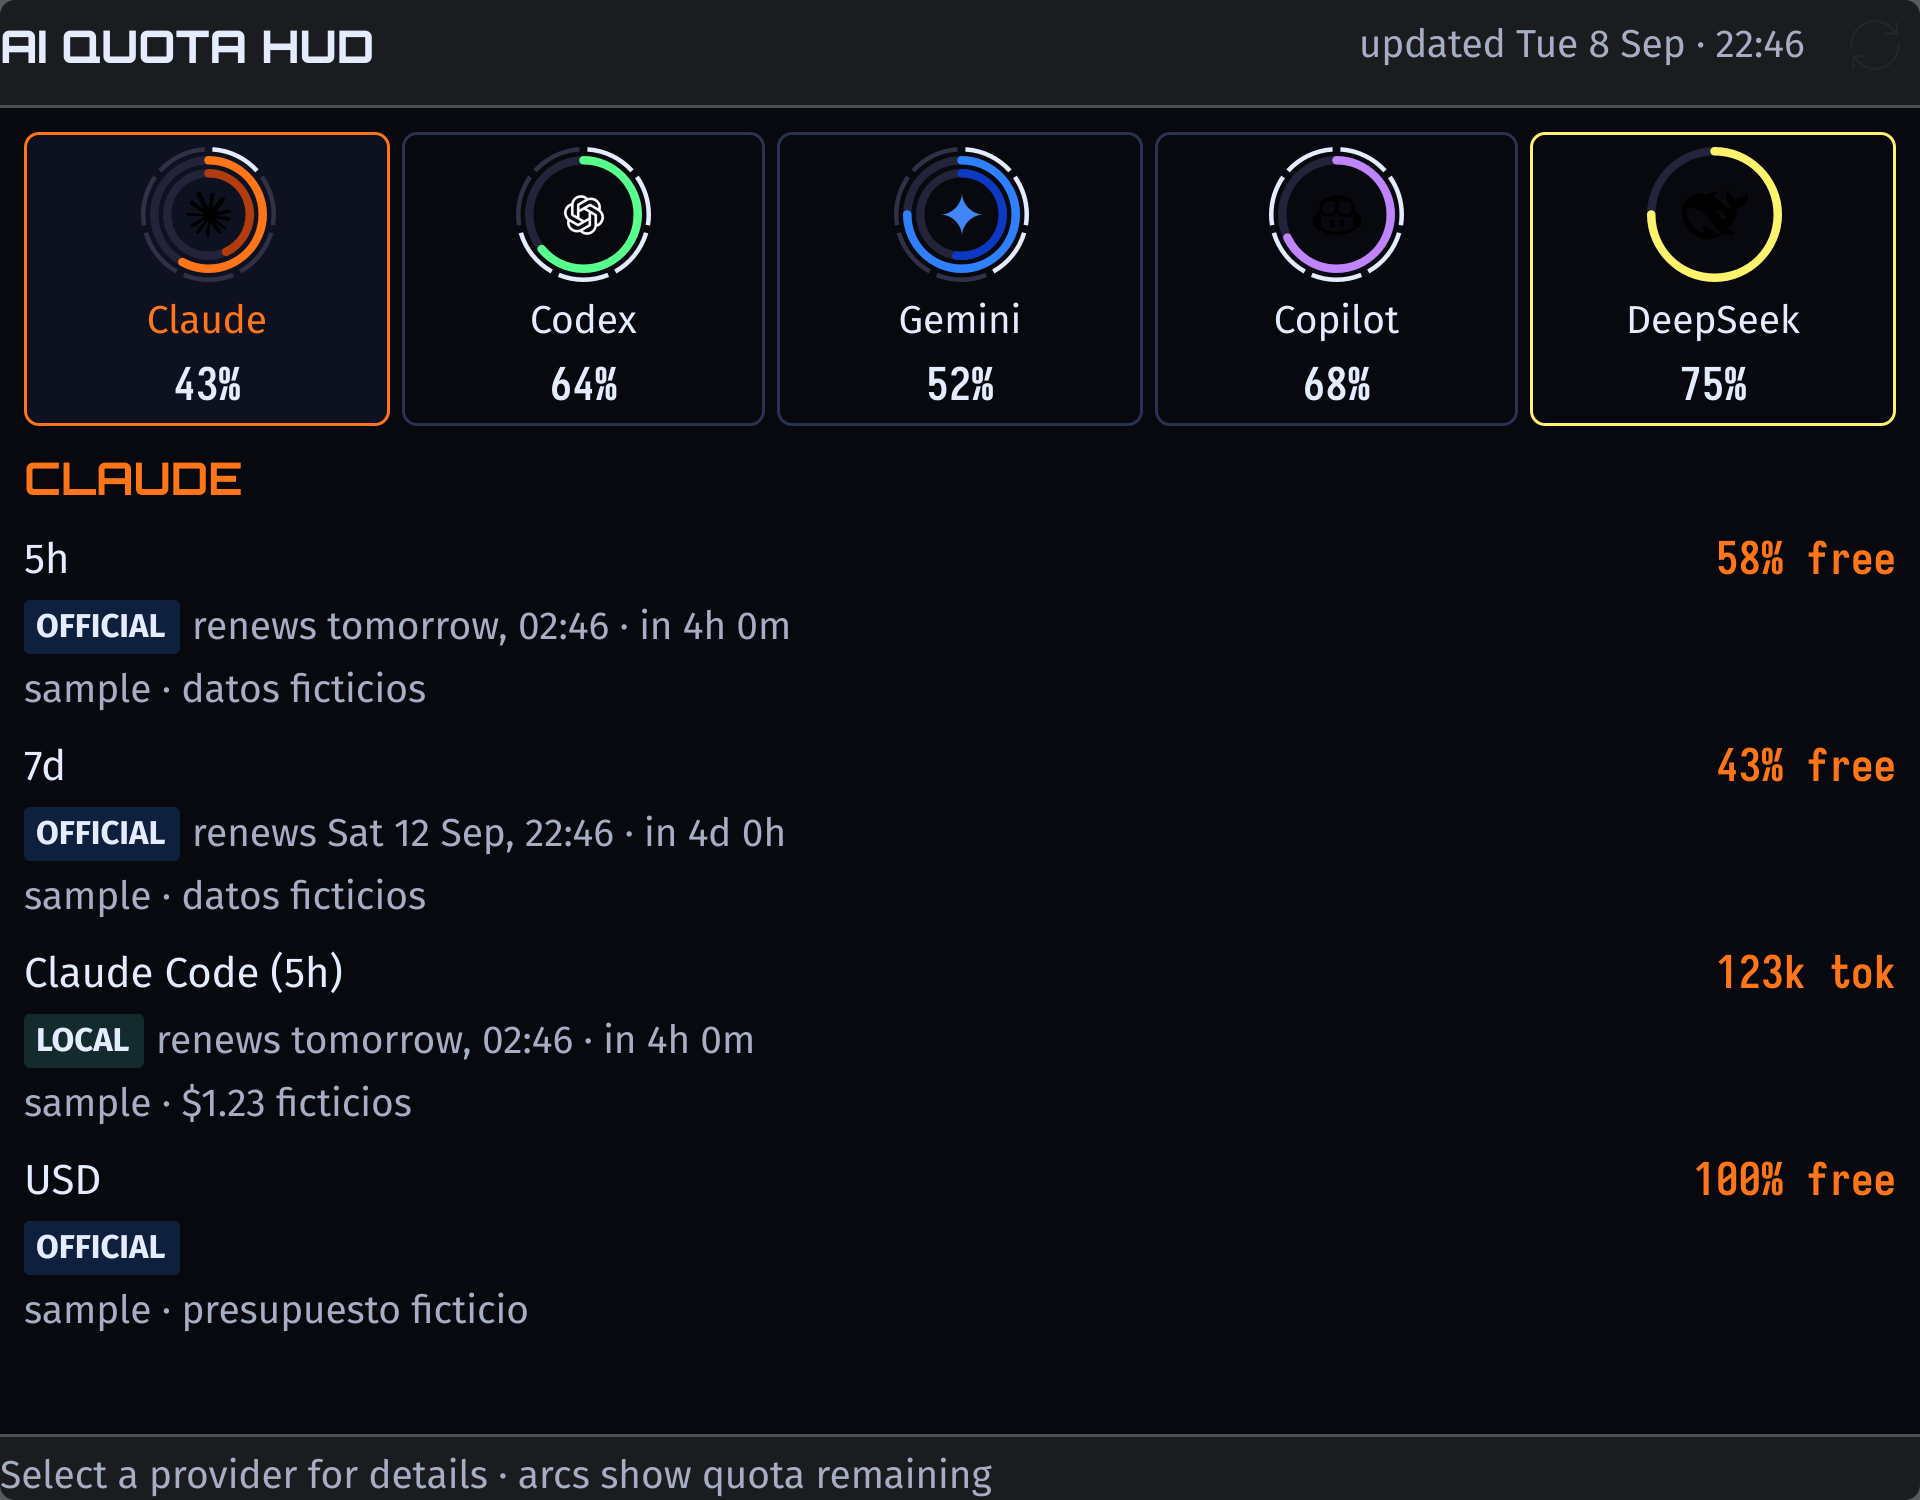
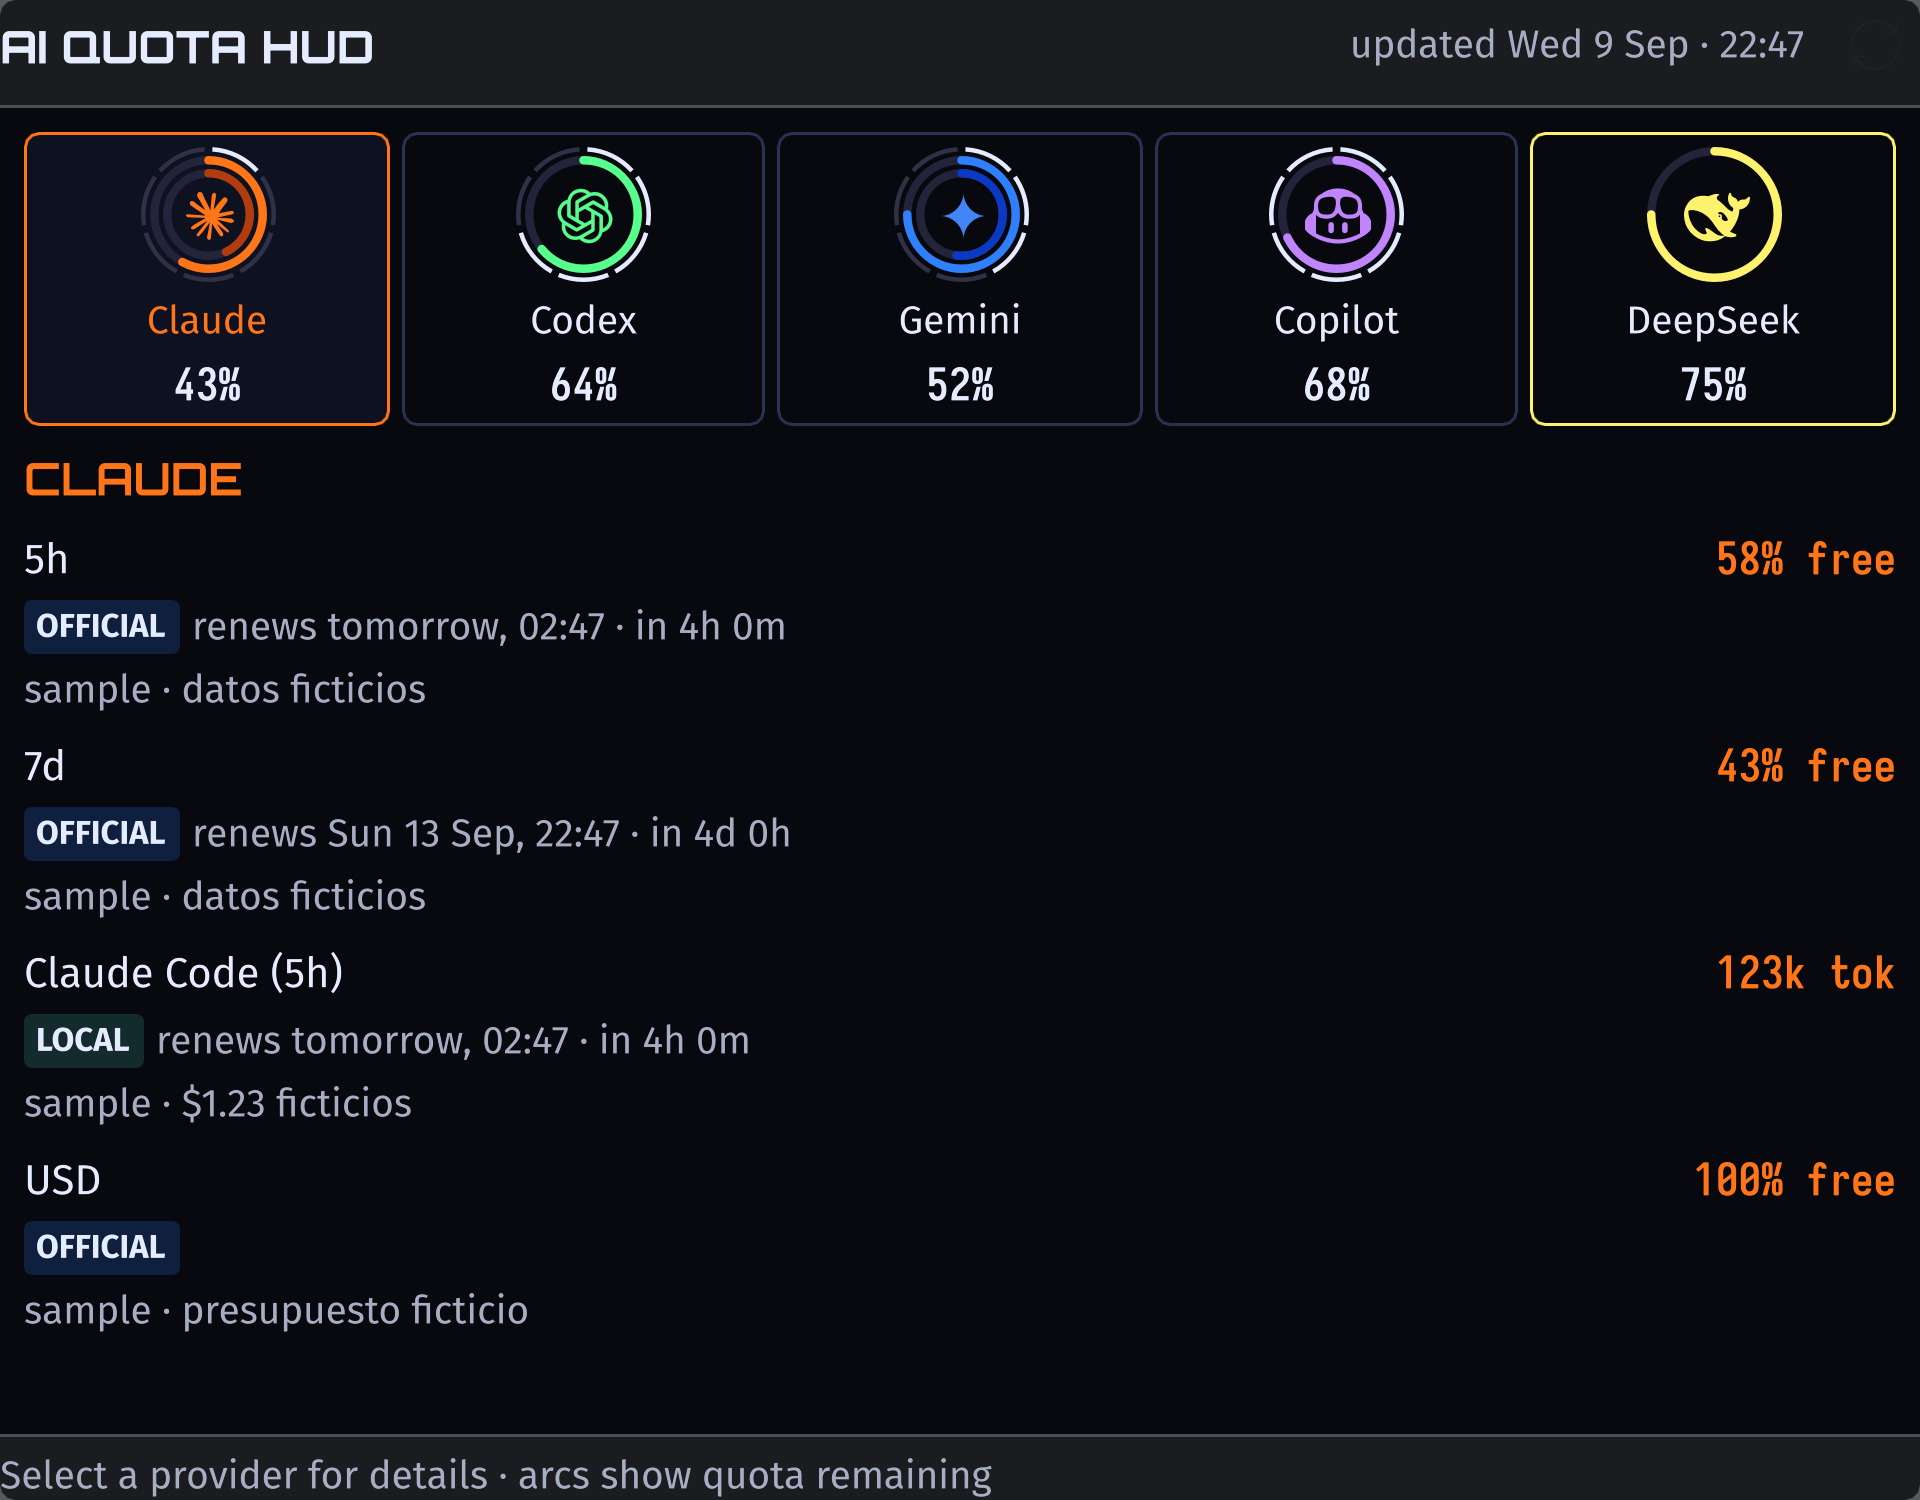
docs(ai-quota-hud): recapturar las figuras con el backend que si tine las mascaras
Las figuras 1 a 3 de los dos idiomas salian con cuatro de los cinco logotipos en
negro (el de Codex, blanco), y en el popup quedaban casi invisibles. El widget
en el panel siempre estuvo bien: el que fallaba era el script de capturas, que
renderizaba por software, y Kirigami.Icon con isMask solo tine bajo RHI.

Medido con umbral de alfa > 250: bar.png tenia 1452 pixeles opacos exactamente
#000000 y 299 #ffffff; popup-hidpi.png y su gemelo en ingles, 2597 y 6 cada uno.
Ahora las cinco PNG tienen cero de cada uno. Las dos WebP de tarjeta social
quedan con 21 y 16 pixeles negros por cuantizacion con perdida sobre el fondo
#08080f --el popup-og anterior tenia 7367--, no por logos sin tenir.

Los logotipos crecen ademas 5,26 %, que es todo el margen geometrico que queda.

Dimensiones sin cambio (648x120, 1260x930, 1920x1500, 1200x938), asi que
_data/visuales/ai-quota-hud.yml no se toca. Se corrige la afirmacion de los dos
posts de que el script "renderiza fuera de pantalla", que este cambio vuelve
falsa, y se anade al pie la nota de actualizacion del 9 de septiembre.

Detalle de la medicion, con la tabla de las ocho combinaciones de plataforma y
backend, en el repo del plasmoide: docs/capturas-rhi-2026-09-09.md (3429746).

diff --git a/_posts/2026-07-15-ai-quota-hud-kde.md b/_posts/2026-07-15-ai-quota-hud-kde.md
@@ -215,12 +215,63 @@ salen las tres figuras nuevas:
 scripts/capture_previews.sh build/previews es 3
 ```
 
-Renderiza las tres vistas fuera de pantalla, con el mismo componente que
+Renderiza las tres vistas sin abrir ventana, con el mismo componente que
 verifican las pruebas, y a la escala que se le pida —3× para estas—. Los datos
 salen de `ai-quota-monitor sample`, que escribe un informe ficticio en un
 directorio temporal: la caché real no se lee ni se toca, y cada línea del render
 queda rotulada como dato ficticio. Por eso las cifras de las figuras no son mis
-cuotas, y por eso se pueden volver a generar idénticas.
+cuotas, y por eso se pueden volver a generar idénticas. Eso sí, necesita GPU, y
+la actualización de más abajo cuenta por qué.
+{: .text-justify}
+
+## Actualización del 9 de septiembre de 2026
+
+Las figuras 1 a 3 se volvieron a generar por una razón concreta: **los logotipos
+salían en negro**. El widget en el panel siempre estuvo bien; lo que estaba mal era
+el script de capturas.
+{: .text-justify}
+
+El componente de Kirigami que recolorea un SVG monocromo lo hace con un material de
+GPU, y el renderizador por software no tiene equivalente para ese material: dibuja
+la silueta y se salta el color. El script renderizaba por software, así que cuatro
+de los cinco logotipos aparecían negros —el de Codex, blanco— y en el popup
+quedaban casi invisibles, oscuro sobre oscuro. El quinto, Gemini, se veía bien
+porque nunca se pretendió teñirlo: conserva el azul de su propio archivo.
+{: .text-justify}
+
+Lo que más me interesa de este fallo es por qué las 93 pruebas seguían verdes. Una
+silueta negra tiene exactamente la misma anchura, la misma altura y la misma
+apertura que una teñida, así que ningún invariante de geometría podía verlo: la
+ausencia de una comprobación de color *era* la razón de que pasara inadvertido. Y
+estaba anotado desde el 6 de septiembre en el propio repositorio —«el renderizado
+por software no muestra fielmente los colores de máscara»—, dos días antes de que un
+commit cambiara el flujo a offscreen y publicara el defecto.
+{: .text-justify}
+
+Medido: la barra tenía 1452 píxeles opacos exactamente negros y 299 exactamente
+blancos; el popup, 2597 y 6. Ahora tiene cero de cada uno y los cuatro logotipos
+enmascarados aparecen en su acento. Hay una prueba nueva que mira el color del píxel
+dentro del disco central de cada dona y exige que el color dominante sea el acento de
+ese proveedor, con Gemini como control negativo: si Gemini casara con los dos, la
+medición estaría mirando el anillo y no el logotipo. Se salta explícitamente si la
+máquina no tiene GPU, y nunca aprueba por no medir nada.
+{: .text-justify}
+
+Una vuelta de tuerca que no esperaba: de las tres formas de renderizar por GPU, las
+dos obvias exigen mapear una ventana, y **una pantalla bloqueada deja de
+presentarla**. Los mismos comandos que funcionaron por la tarde se colgaban una hora
+después con la sesión bloqueada, esperando un fotograma que nadie iba a pintar. La
+vía que sí sirve no abre ventana en absoluto. Y al cambiar de plataforma apareció otra
+sorpresa: la nueva deducía el DPI del monitor real en vez de usar 96, y con eso el
+tooltip crecía 24 píxeles sin que cambiara una línea de código. Ahora el DPI va fijo,
+así que la geometría no depende del monitor de la máquina que capture.
+{: .text-justify}
+
+Y los logotipos crecieron un 5,3 %, que es todo el margen que queda: la esquina de su
+recuadro toca ya la circunferencia del hueco central. La comprobación que garantizaba
+esa contención estaba anulada por un techo silencioso que recortaba cualquier valor
+mayor que 1 sin avisar —un valor de 1,10 salía verde—; quitarlo la devolvió al
+servicio.
 {: .text-justify}
 
 {% include figure popup=true image_path="/assets/images/ai-quota-hud/xkcd-303-compiling.png" alt="xkcd 303, Compiling: dos programadores juegan mientras esperan que termine la compilación." caption="**Figura 5** — *Compiling*, [xkcd n.º 303](https://xkcd.com/303/), de Randall Munroe. Antes la coartada era que el código estaba compilando; ahora puedo alegar que la cuota reinicia la próxima semana. Licencia [CC BY-NC 2.5](https://creativecommons.org/licenses/by-nc/2.5/)." %}

diff --git a/_posts/2026-07-15-ai-quota-hud-kde-en.md b/_posts/2026-07-15-ai-quota-hud-kde-en.md
@@ -219,12 +219,63 @@ that is where the three new figures come from:
 scripts/capture_previews.sh build/previews en 3
 ```
 
-It renders the three views offscreen, with the same component the tests verify,
-at whatever scale is asked for —3× for these. The data comes from
+It renders the three views without opening a window, with the same component the
+tests verify, at whatever scale is asked for —3× for these. The data comes from
 `ai-quota-monitor sample`, which writes a synthetic report into a temporary
 directory: the real cache is neither read nor touched, and every line of the
 render is labelled as synthetic. That is why the figures do not show my quotas,
-and why they can be regenerated identically.
+and why they can be regenerated identically. It does need a GPU, though, and the
+update below explains why.
+{: .text-justify}
+
+## Update, 9 September 2026
+
+Figures 1 to 3 were regenerated for a specific reason: **the logos came out
+black**. The widget on the panel was always fine; what was wrong was the
+screenshot script.
+{: .text-justify}
+
+The Kirigami component that recolours a monochrome SVG does it with a GPU
+material, and the software renderer has no equivalent for that material: it draws
+the silhouette and skips the colour. The script rendered in software, so four of
+the five logos showed up black —Codex, white— and in the popup they were nearly
+invisible, dark on dark. The fifth, Gemini, looked right because it was never
+meant to be tinted: it keeps the blue of its own file.
+{: .text-justify}
+
+What interests me most about this failure is why all 93 tests stayed green. A black
+silhouette has exactly the same width, the same height and the same aperture as a
+tinted one, so no geometric invariant could see it: the absence of a colour check
+*was* the reason it went unnoticed. And it had been written down in the repository
+since 6 September —«software rendering alone did not show SVG mask colours
+faithfully»— two days before a commit switched the flow to offscreen and shipped the
+defect.
+{: .text-justify}
+
+Measured: the bar had 1452 opaque pixels of pure black and 299 of pure white; the
+popup, 2597 and 6. It now has zero of each, and the four masked logos appear in their
+accent colour. There is a new test that looks at the pixel colour inside the central
+disc of every donut and requires the dominant colour to be that provider's accent,
+with Gemini as the negative control: if Gemini matched both, the measurement would be
+looking at the ring rather than the logo. It skips explicitly when the machine has no
+GPU, and it never passes by measuring nothing.
+{: .text-justify}
+
+A twist I did not expect: of the three ways to render on the GPU, the two obvious ones
+require mapping a window, and **a locked screen stops presenting it**. The same
+commands that worked in the afternoon hung an hour later with the session locked,
+waiting for a frame nobody was going to paint. The one that works opens no window at
+all. And switching platforms brought another surprise: the new one derived the DPI
+from the real monitor instead of using 96, and with that the tooltip grew 24 pixels
+without a single line of code changing. The DPI is now pinned, so the geometry does not
+depend on the monitor of whichever machine takes the screenshot.
+{: .text-justify}
+
+The logos also grew by 5.3 %, which is all the margin left: the corner of their box now
+touches the circumference of the central hole. The check that guaranteed that
+containment had been disabled by a silent ceiling that clamped any value above 1
+without warning —a value of 1.10 came out green—; removing it put the check back in
+service.
 {: .text-justify}
 
 {% include figure popup=true image_path="/assets/images/ai-quota-hud/xkcd-303-compiling.png" alt="xkcd 303, Compiling: two programmers play while waiting for compilation to finish." caption="**Figure 5** — *Compiling*, [xkcd no. 303](https://xkcd.com/303/), by Randall Munroe. The old excuse was that the code was compiling; now I can say the quota resets next week. Licensed under [CC BY-NC 2.5](https://creativecommons.org/licenses/by-nc/2.5/)." %}
